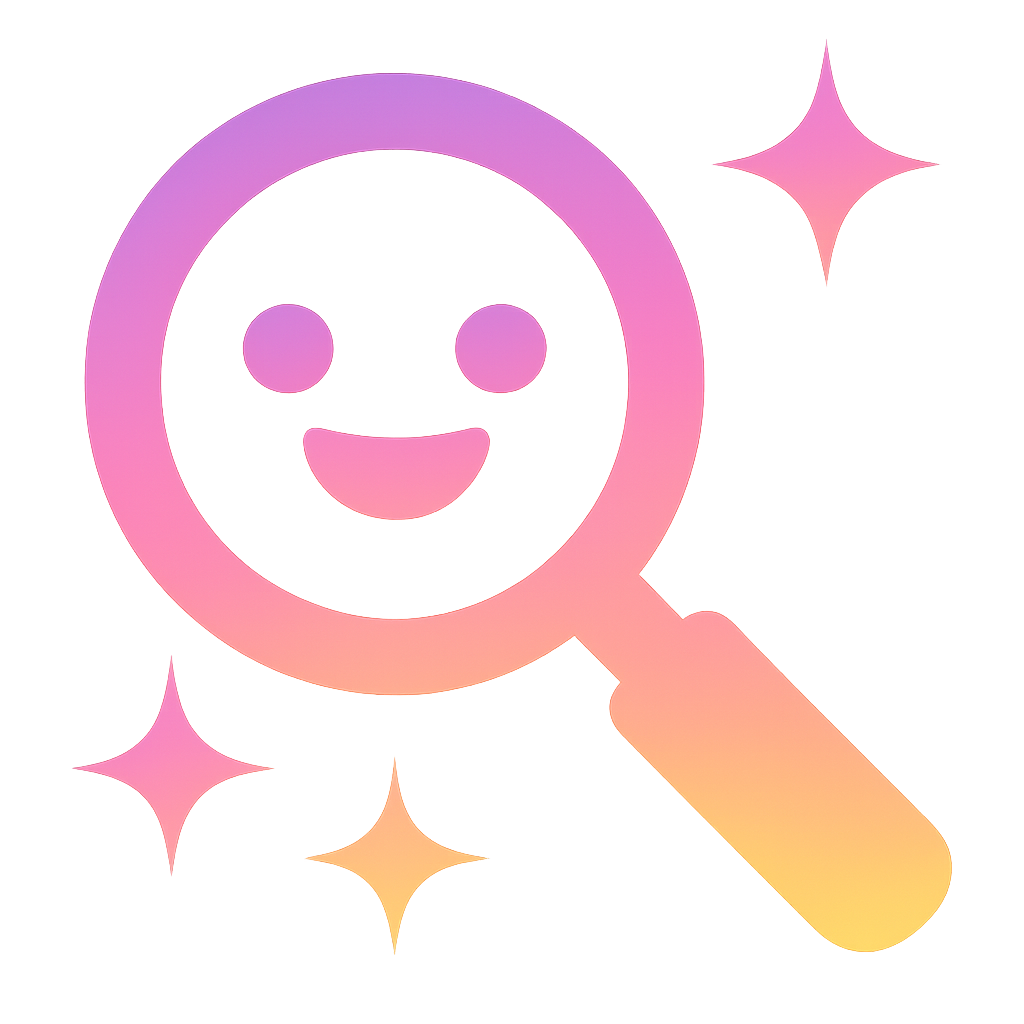
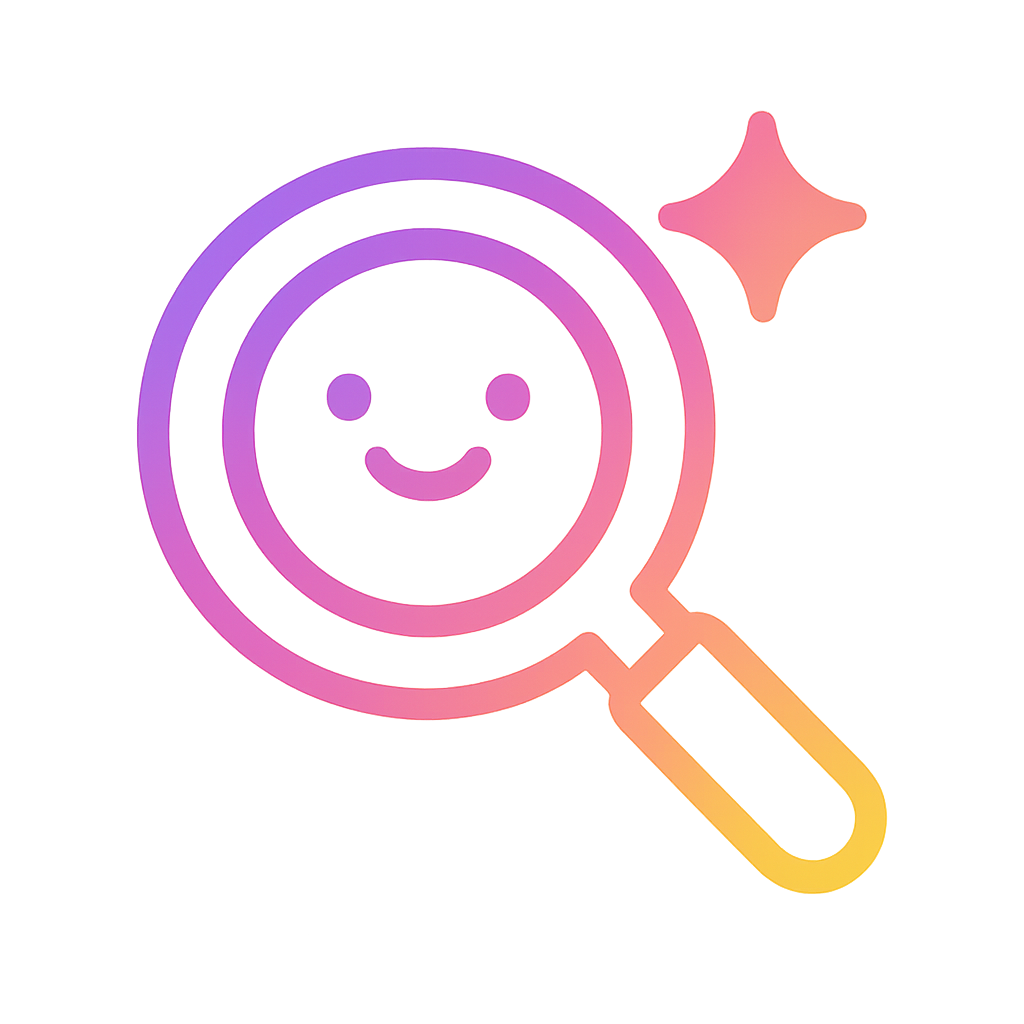
new

Changed region(s): [[0.0625, 0.0625, 0.9375, 0.9375], [0.0938, 0.6562, 0.25, 0.8438], [0.3125, 0.75, 0.4688, 0.9375]]

diff --git a/app/layout.tsx b/app/layout.tsx
@@ -20,9 +20,33 @@ export const metadata: Metadata = {
     absolute: 'Datavibes AI',
   },
   description: 'Datavibes AI is a minimalistic AI-powered search engine that helps you find information on the internet.',
+  icons: {
+    icon: [
+      { url: '/icon.png', sizes: '32x32', type: 'image/png' },
+      { url: '/favicon.ico', sizes: 'any' }
+    ],
+    apple: [
+      { url: '/apple-icon.png', sizes: '180x180', type: 'image/png' }
+    ],
+    other: [
+      {
+        rel: 'mask-icon',
+        url: '/icon.png',
+        color: '#000000'
+      }
+    ]
+  },
+  manifest: '/manifest.ts',
   openGraph: {
     url: 'https://Datavibes.ai',
     siteName: 'Datavibes AI',
+    images: [
+      {
+        url: '/icon.png',
+        width: 32,
+        height: 32
+      }
+    ]
   },
   keywords: [
     'Datavibes.ai',
